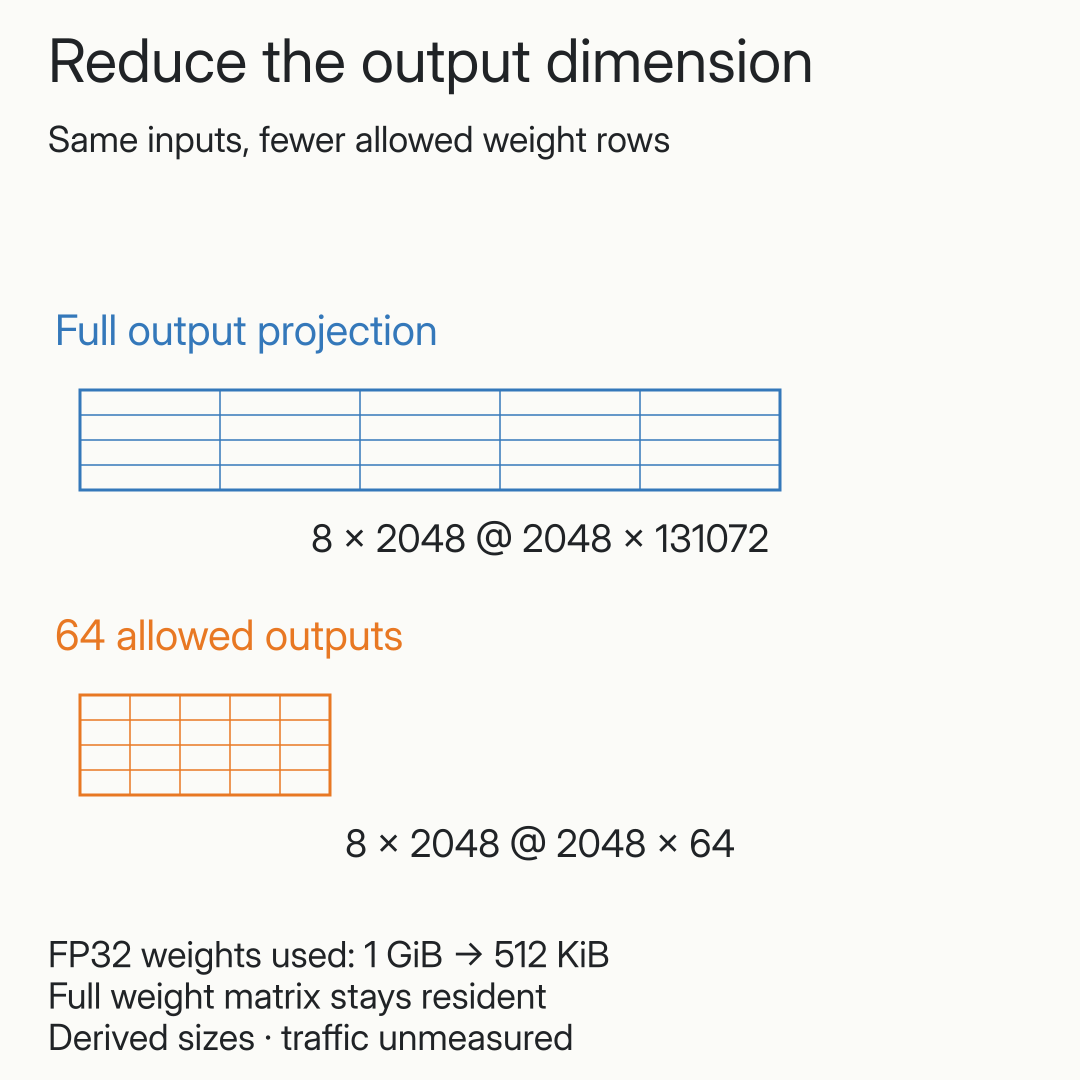
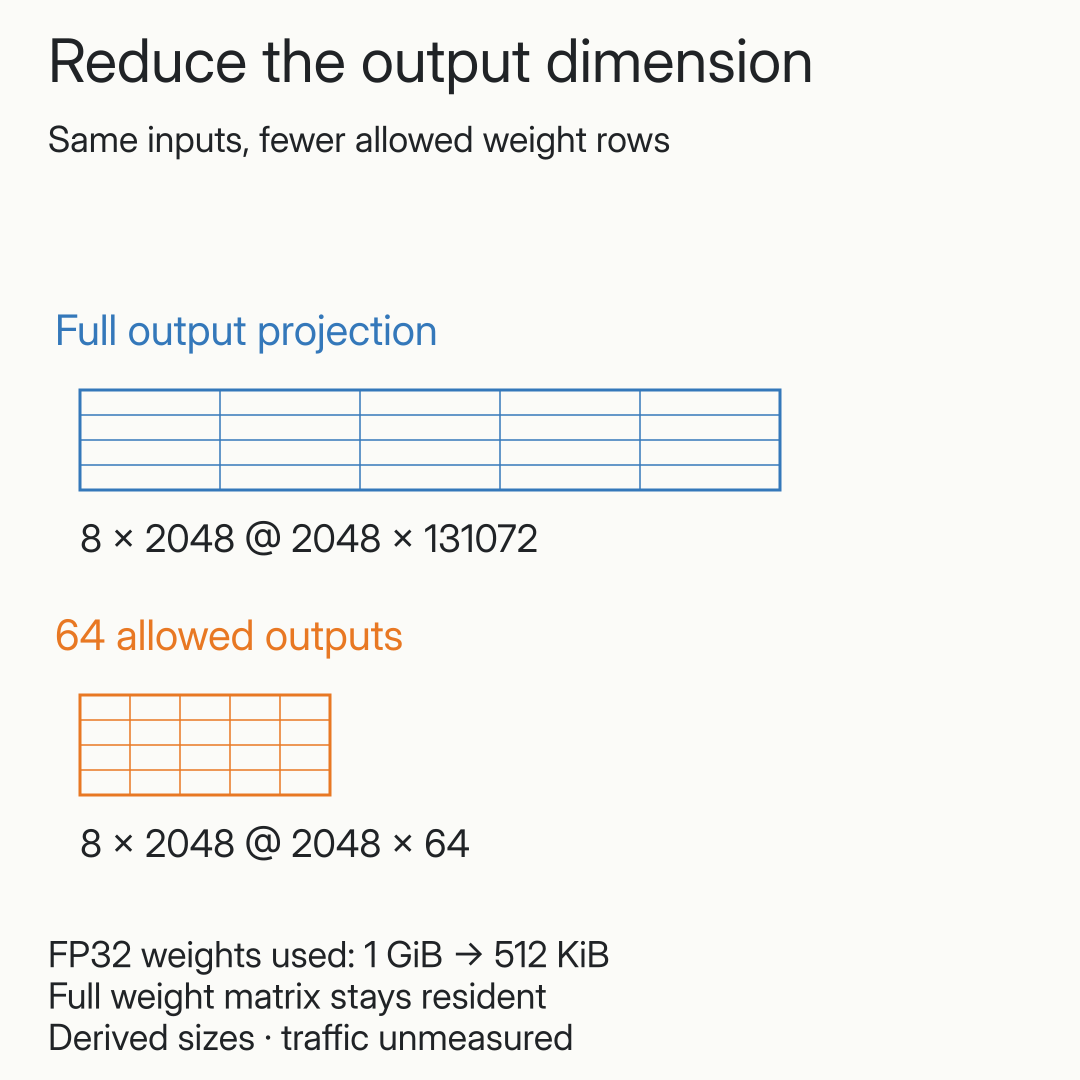
Improve spacing in candidate output-head supporting figures

Changed region(s): [[0.0611, 0.4583, 0.7028, 0.5194], [0.0611, 0.7639, 0.7028, 0.7944]]

diff --git a/research/2026-10-27-pm-candidate-logits/images/render_illustrations.py b/research/2026-10-27-pm-candidate-logits/images/render_illustrations.py
@@ -186,6 +186,26 @@ def check_text_bar_clearance(texts, marks, minimum=20):
     return {'minimum_required_px':minimum,'minimum_observed_px':min(gaps),'checked_pairs':len(gaps)}
 
 
+def check_paragraph_gaps(board):
+    """Keep the result, comparison sections and evidence footer visually distinct."""
+    pairs=[]
+    if board.stem=='aud-performance-engineer':
+        ratio=next(label for _,label in board.boxes if label.endswith('ratio of retained medians'))
+        pairs=[(ratio,'Full scoring + filter',32)]
+    elif board.stem=='aud-kernel-engineer':
+        pairs=[('8 × 2048  @  2048 × 131072','64 allowed outputs',32),
+               ('8 × 2048  @  2048 × 64','FP32 weights used: 1 GiB → 512 KiB',64)]
+    checked=[]
+    for first,second,minimum in pairs:
+        a=[box for box,label in board.boxes if label==first]
+        b=[box for box,label in board.boxes if label==second]
+        require(len(a)==len(b)==1,'Paragraph labels must be unique')
+        actual=b[0][1]-a[0][3]
+        require(actual>=minimum,'Paragraph separation too small: '+first+' / '+second)
+        checked.append({'first':first,'second':second,'minimum_px':minimum,'actual_px':actual})
+    return checked
+
+
 def comparison(square):
     b=Board('b','Six warm-block comparisons','Synthetic strict-FP32 output-head stage',square)
     legend_size = 36 if square else 48
@@ -326,7 +346,7 @@ def performance(square):
     b=Board('aud-performance-engineer','Include gathering in timing','64 changing allowed IDs · warm 16-step blocks',square)
     c=next(c for c in SUMMARY['cells'] if c['size']==64 and c['mode']=='changing')
     ratios=[r['baseline_wall_ms']/r['candidate_wall_ms'] for r in PAIRS if r['size']==64 and r['mode']=='changing']
-    b.text(b.w/2,310 if square else 250,f"{c['speedup']:.2f}× ratio of retained medians",36 if square else 48,b.orange,'middle')
+    b.text(b.w/2,300 if square else 232,f"{c['speedup']:.2f}× ratio of retained medians",36 if square else 48,b.orange,'middle')
     x0,width=(100,700) if square else (100,1080)
     for y,series,label in zip((400,555) if square else (330,455),('baseline','candidate'),('Full scoring + filter','Allowed rows first')):
         color=b.blue if series=='baseline' else b.orange
@@ -351,13 +371,13 @@ def kernel(square):
     b=Board('aud-kernel-engineer','Reduce the output dimension','Same inputs, fewer allowed weight rows',square)
     if square:
         for y,title,col,w,shape in ((345,'Full output projection',b.blue,700,'8 × 2048  @  2048 × 131072'),(650,'64 allowed outputs',b.orange,250,'8 × 2048  @  2048 × 64')):
-            b.text(55,y,title,42,col);b.matrix(80,y+45,w,100,col);b.text(540,y+207,shape,38,anchor='middle')
+            b.text(55,y,title,42,col);b.matrix(80,y+45,w,100,col);b.text(80,y+207,shape,38)
         b.foot(['FP32 weights used: 1 GiB → 512 KiB','Full weight matrix stays resident','Derived sizes · traffic unmeasured'])
     else:
-        for y,title,col,w,shape in ((280,'Full output projection',b.blue,1000,'8 × 2048  @  2048 × 131072'),(515,'64 allowed outputs',b.orange,300,'8 × 2048  @  2048 × 64')):
+        for y,title,col,w,shape in ((250,'Full output projection',b.blue,1000,'8 × 2048  @  2048 × 131072'),(515,'64 allowed outputs',b.orange,300,'8 × 2048  @  2048 × 64')):
             b.text(70,y,title,48,col)
             b.matrix(80,y+35,w,80,col)
-            b.text(80,y+180,shape,48)
+            b.text(80 if col==b.blue else 440,y+180 if col==b.blue else y+95,shape,48)
         b.foot(['FP32 weights used: 1 GiB → 512 KiB','Full weight matrix stays resident','Derived sizes · traffic unmeasured'])
 
     return b
@@ -448,6 +468,7 @@ def main():
                 bars=[t for t in tree.iter() if t.get('data-science')=='bar']
                 require(len(bars)==len(board.chart),'Scientific bar metadata missing')
                 clearance=check_text_bar_clearance(board.boxes,bars) if board.stem=='b' else None
+                paragraphs=check_paragraph_gaps(board)
                 for node,row in zip(bars,board.chart):
                     require(abs(float(node.get('width'))-row['scale_px_per_ms']*row['median_ms'])<1e-9,'Median bar geometry changed')
                     require(node.get('fill')==(board.blue if row['series']=='baseline' else board.orange),'Series color changed')
@@ -463,7 +484,7 @@ def main():
                 entries[str(path.relative_to(out))]={'sha256':sha(path),'bytes':path.stat().st_size}
                 for png in copies:entries[str(png.relative_to(out))]={'sha256':sha(png),'bytes':png.stat().st_size}
                 copy += board.copy
-                checks.append({'stem':stem,'square':square,'text_boxes_checked':len(board.boxes),'regular_Inter_only':True,'text_nonoverlap':True,'text_bar_clearance':clearance,'minimum_text_px_at_400':min(float(t.get('font-size'))*400/board.w for t in tree.iter() if t.tag.endswith('text'))})
+                checks.append({'stem':stem,'square':square,'text_boxes_checked':len(board.boxes),'regular_Inter_only':True,'text_nonoverlap':True,'text_bar_clearance':clearance,'paragraph_separation':paragraphs,'minimum_text_px_at_400':min(float(t.get('font-size'))*400/board.w for t in tree.iter() if t.tag.endswith('text'))})
                 geometry_rows.append({'stem':stem,'square':square,'bars':board.chart})
             setup={c['size']:c['row_setup_wall_ms'] for c in SUMMARY['cells'] if c['mode']=='static'}
             side=out/(target_stem(stem)+'.txt')
